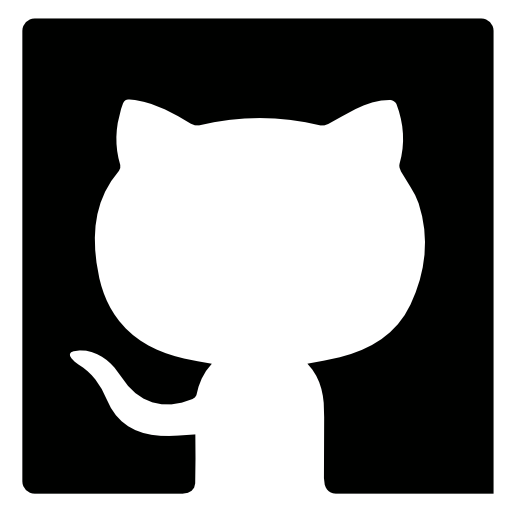
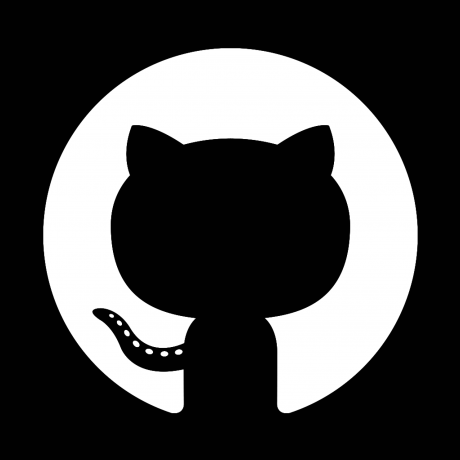
updates navbar

diff --git a/worksamples.html b/worksamples.html
@@ -1,0 +1,53 @@
+<!DOCTYPE html>
+<html lang="en">
+  <head>
+    <meta charset="utf-8">
+    <meta http-equiv="X-UA-Compatible" content="IE=edge">
+    <meta name="viewport" content="width=device-width, initial-scale=1">
+
+    <title>Valerie Barela</title>
+
+    <link rel="stylesheet" href="bootstrap-3.3.7-dist/css/bootstrap.min.css">
+    <link rel="stylesheet" href="assets/stylesheets/main.css">
+  </head>
+  <body>
+    <nav class="navbar navbar-default">
+      <div class="container-fluid">
+        <div class="navbar-header">
+          <button type="button" class="navbar-toggle collapsed" data-toggle="collapse" data-target="#bs-example-navbar-collapse-1" aria-expanded="false">
+            <span class="sr-only">Toggle navigation</span>
+            <span class="icon-bar"></span>
+            <span class="icon-bar"></span>
+            <span class="icon-bar"></span>
+          </button>
+          <a class="navbar-brand" href="homepage.html">Home</a>
+        </div>
+        <div class="collapse navbar-collapse" id="myNavbar">
+          <ul class="nav navbar-nav">
+            <li><a href="experience.html">Experience</a></li>
+            <li><a href="worksamples.html">Work Samples</a></li>
+            <li><a href="contact.html">Contact</a></li>
+          </ul>
+          <ul class="nav navbar-nav navbar-right">
+            <li><a target="_blank" href="https://github.com/vbarela1">
+                  <img id='logo' src='assets/images/github.png' alt="Valerie's GitHub" />
+                </a>
+            </li>
+            <li>
+              <a target="_blank" href="https://www.linkedin.com/in/barelavalerie/">
+                <img id='logo' src='assets/images/linkedin.png' alt="Valerie's LinkedIn" />
+              </a>
+            </li>
+          </ul>
+        </div>
+      </div>
+    </nav>
+
+    <h1>Work Samples</h1>
+
+
+    <script src='assets/jquery-3.2.1.min.js'></script>
+    <script src='bootstrap-3.3.7-dist/js/bootstrap.min.js'></script>
+
+</body>
+</html>

diff --git a/contact.html b/contact.html
@@ -1,0 +1,53 @@
+<!DOCTYPE html>
+<html lang="en">
+  <head>
+    <meta charset="utf-8">
+    <meta http-equiv="X-UA-Compatible" content="IE=edge">
+    <meta name="viewport" content="width=device-width, initial-scale=1">
+
+    <title>Valerie Barela</title>
+
+    <link rel="stylesheet" href="bootstrap-3.3.7-dist/css/bootstrap.min.css">
+    <link rel="stylesheet" href="assets/stylesheets/main.css">
+  </head>
+  <body>
+    <nav class="navbar navbar-default">
+      <div class="container-fluid">
+        <div class="navbar-header">
+          <button type="button" class="navbar-toggle collapsed" data-toggle="collapse" data-target="#bs-example-navbar-collapse-1" aria-expanded="false">
+            <span class="sr-only">Toggle navigation</span>
+            <span class="icon-bar"></span>
+            <span class="icon-bar"></span>
+            <span class="icon-bar"></span>
+          </button>
+          <a class="navbar-brand" href="homepage.html">Home</a>
+        </div>
+        <div class="collapse navbar-collapse" id="myNavbar">
+          <ul class="nav navbar-nav">
+            <li><a href="experience.html">Experience</a></li>
+            <li><a href="worksamples.html">Work Samples</a></li>
+            <li><a href="contact.html">Contact</a></li>
+          </ul>
+          <ul class="nav navbar-nav navbar-right">
+            <li><a target="_blank" href="https://github.com/vbarela1">
+                  <img id='logo' src='assets/images/github.png' alt="Valerie's GitHub" />
+                </a>
+            </li>
+            <li>
+              <a target="_blank" href="https://www.linkedin.com/in/barelavalerie/">
+                <img id='logo' src='assets/images/linkedin.png' alt="Valerie's LinkedIn" />
+              </a>
+            </li>
+          </ul>
+        </div>
+      </div>
+    </nav>
+
+    <h1>Contact Me</h1>
+
+
+    <script src='assets/jquery-3.2.1.min.js'></script>
+    <script src='bootstrap-3.3.7-dist/js/bootstrap.min.js'></script>
+
+</body>
+</html>

diff --git a/experience.html b/experience.html
@@ -1,0 +1,53 @@
+<!DOCTYPE html>
+<html lang="en">
+  <head>
+    <meta charset="utf-8">
+    <meta http-equiv="X-UA-Compatible" content="IE=edge">
+    <meta name="viewport" content="width=device-width, initial-scale=1">
+
+    <title>Valerie Barela</title>
+
+    <link rel="stylesheet" href="bootstrap-3.3.7-dist/css/bootstrap.min.css">
+    <link rel="stylesheet" href="assets/stylesheets/main.css">
+  </head>
+  <body>
+    <nav class="navbar navbar-default">
+      <div class="container-fluid">
+        <div class="navbar-header">
+          <button type="button" class="navbar-toggle collapsed" data-toggle="collapse" data-target="#bs-example-navbar-collapse-1" aria-expanded="false">
+            <span class="sr-only">Toggle navigation</span>
+            <span class="icon-bar"></span>
+            <span class="icon-bar"></span>
+            <span class="icon-bar"></span>
+          </button>
+          <a class="navbar-brand" href="homepage.html">Home</a>
+        </div>
+        <div class="collapse navbar-collapse" id="myNavbar">
+          <ul class="nav navbar-nav">
+            <li><a href="experience.html">Experience</a></li>
+            <li><a href="worksamples.html">Work Samples</a></li>
+            <li><a href="contact.html">Contact</a></li>
+          </ul>
+          <ul class="nav navbar-nav navbar-right">
+            <li><a target="_blank" href="https://github.com/vbarela1">
+                  <img id='logo' src='assets/images/github.png' alt="Valerie's GitHub" />
+                </a>
+            </li>
+            <li>
+              <a target="_blank" href="https://www.linkedin.com/in/barelavalerie/">
+                <img id='logo' src='assets/images/linkedin.png' alt="Valerie's LinkedIn" />
+              </a>
+            </li>
+          </ul>
+        </div>
+      </div>
+    </nav>
+
+    <h1>Experience</h1>
+
+
+    <script src='assets/jquery-3.2.1.min.js'></script>
+    <script src='bootstrap-3.3.7-dist/js/bootstrap.min.js'></script>
+
+</body>
+</html>

diff --git a/homepage.html b/homepage.html
@@ -20,22 +20,22 @@
             <span class="icon-bar"></span>
             <span class="icon-bar"></span>
           </button>
-          <a class="navbar-brand" href="#">Home</a>
+          <a class="navbar-brand" href="homepage.html">Home</a>
         </div>
         <div class="collapse navbar-collapse" id="myNavbar">
           <ul class="nav navbar-nav">
             <li><a href="experience.html">Experience</a></li>
-            <li><a href="experience.html">Work Samples</a></li>
+            <li><a href="worksamples.html">Work Samples</a></li>
             <li><a href="contact.html">Contact</a></li>
           </ul>
           <ul class="nav navbar-nav navbar-right">
-            <li><a href="https://github.com/vbarela1">
-                  <img id='git-hub-link' src='assets/images/github.png' alt="Valerie's GitHub" />
+            <li><a target="_blank" href="https://github.com/vbarela1">
+                  <img id='logo' src='assets/images/github.png' alt="Valerie's GitHub" />
                 </a>
             </li>
             <li>
-              <a href="https://www.linkedin.com/in/barelavalerie/">
-                <img id='linkedin-link' src='assets/images/linkedin.png' alt="Valerie's LinkedIn" />
+              <a target="_blank" href="https://www.linkedin.com/in/barelavalerie/">
+                <img id='logo' src='assets/images/linkedin.png' alt="Valerie's LinkedIn" />
               </a>
             </li>
           </ul>
@@ -44,8 +44,10 @@
     </nav>
 
     <h1>Valerie Barela</h1>
-    <script src="https://ajax.googleapis.com/ajax/libs/jquery/1.12.4/jquery.min.js"></script>
-    <script src="js/bootstrap.min.js"></script>
-    <script src='assets/javascript/custom.js'></script>
-  </body>
+
+
+    <script src='assets/jquery-3.2.1.min.js'></script>
+    <script src='bootstrap-3.3.7-dist/js/bootstrap.min.js'></script>
+
+</body>
 </html>

diff --git a/assets/stylesheets/main.css b/assets/stylesheets/main.css
@@ -1,0 +1,7 @@
+/*
+======== Navbar ==========
+*/
+#logo {
+  height: 40px;
+  width: 40px;
+}
